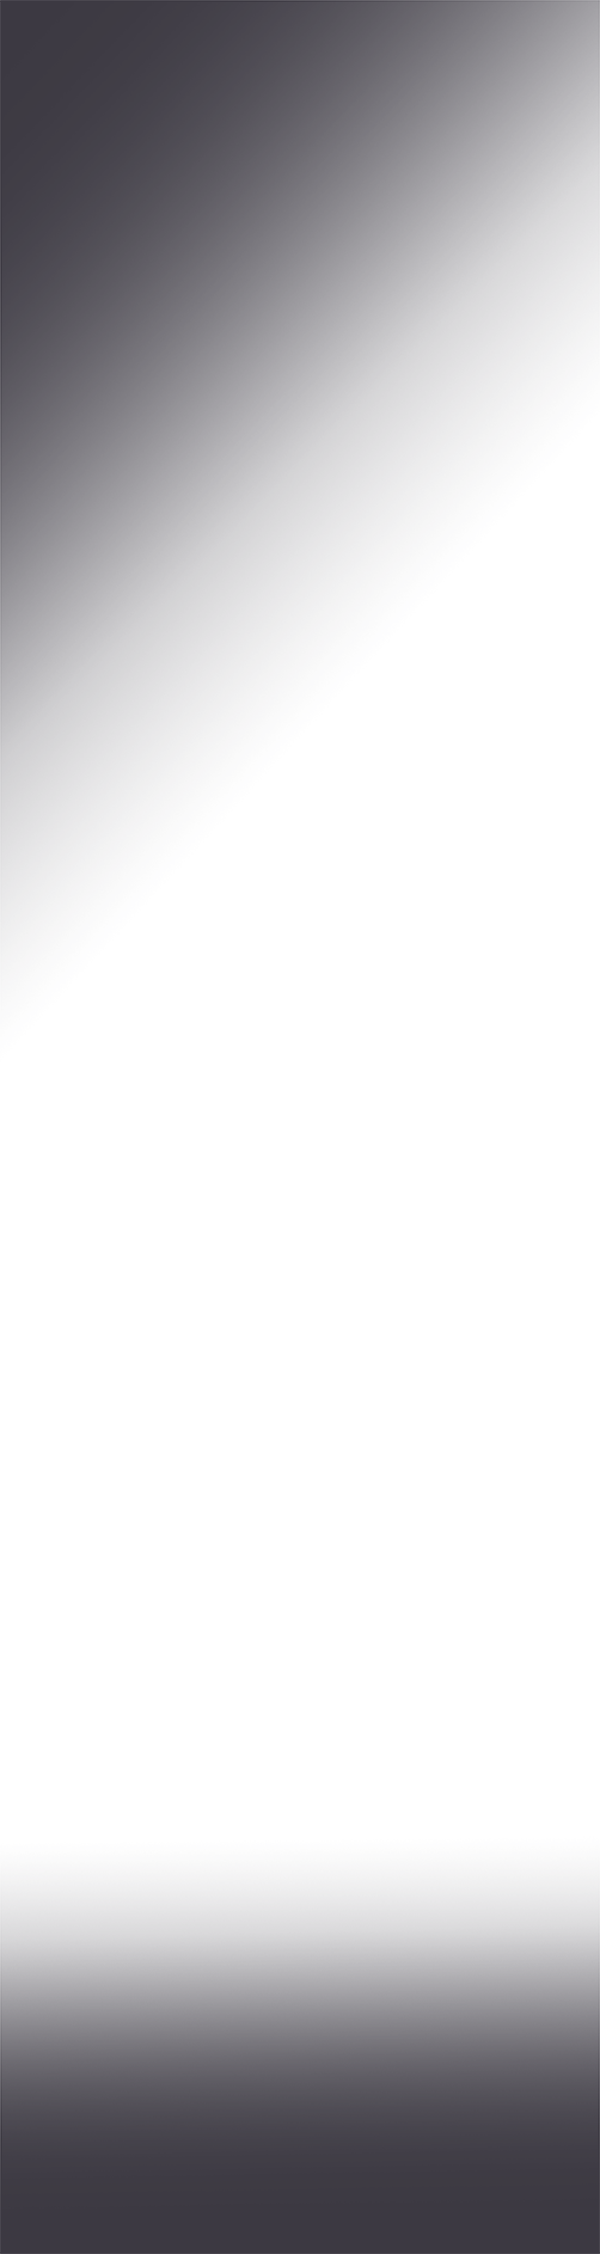
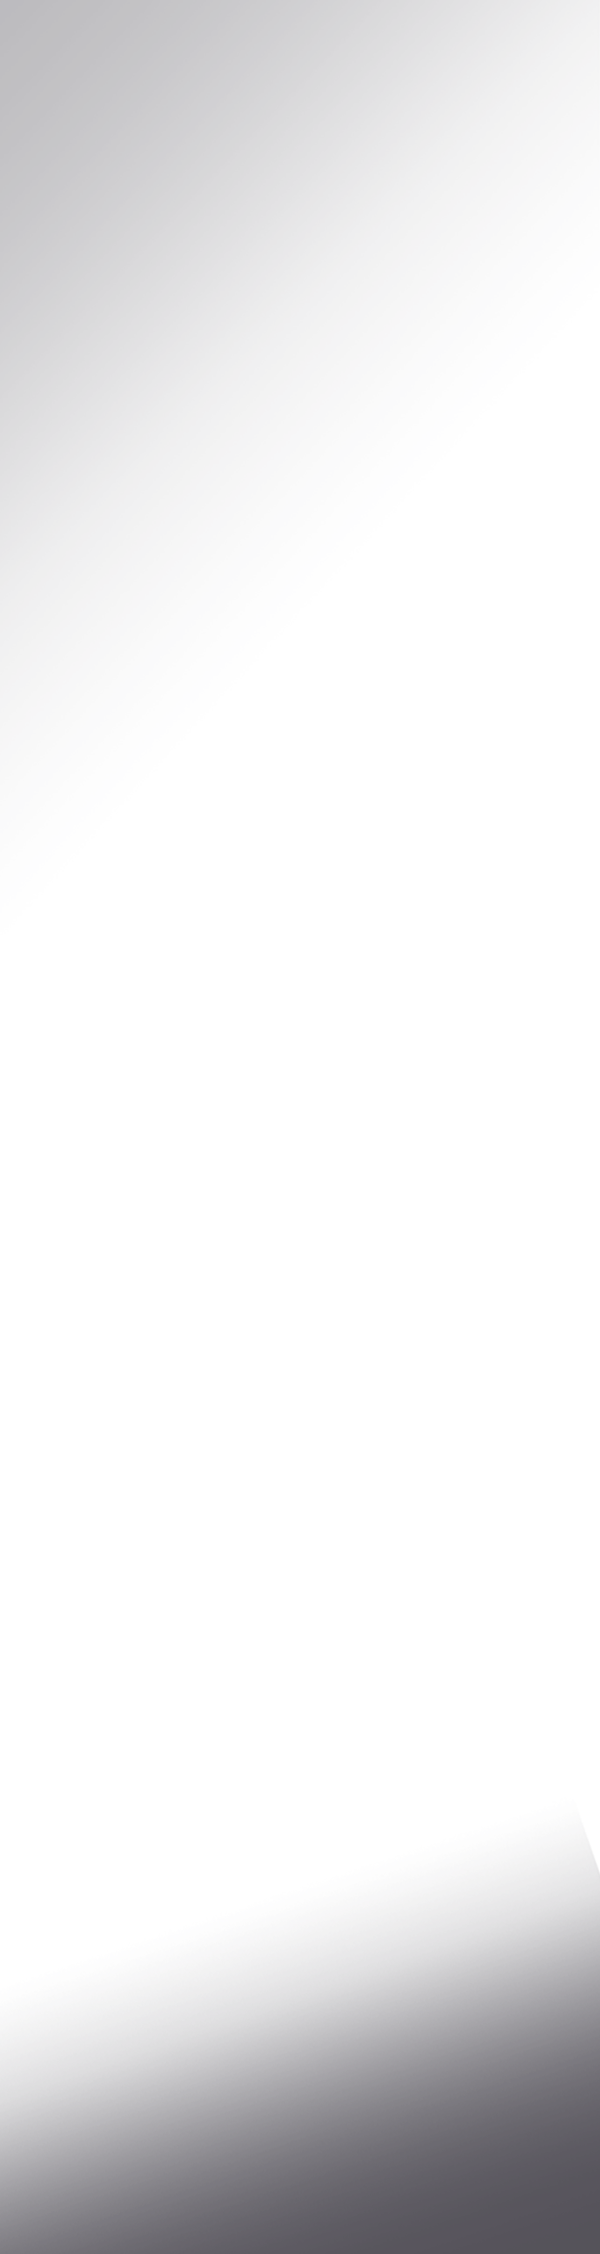
general fix

diff --git a/css/custom/_sidebar.scss b/css/custom/_sidebar.scss
@@ -14,6 +14,12 @@
     position: relative;
     font-family: $font-family-base;
 
+    .sidebar-container {
+        height: 100vh;
+        background:url("/assets/images/sider-bk.png") bottom;
+        background-size: cover;
+    }
+
     .sidebar-logo {
         padding: 0 2.8rem 3rem;
         width: 100%;
@@ -68,6 +74,9 @@
     .sidebar-footer {
         text-align: center;
         width: 100%;
+        position: absolute;
+        bottom: 1rem;
+        left: 0;
         
         .sidebar-footer-logo {
             max-width: 120px;
@@ -91,6 +100,21 @@
     @include media-breakpoint-down(sm) {
         .custom-menu{
             right: 0 !important;
+        }
+
+        .sidebar-logo {
+            padding: 0 3.5rem 1rem !important;
+        }
+        ul li a {
+            padding: .25rem 0 !important;
+        }
+
+        .sidebar-footer {
+            font-size: .8rem;
+            
+            .sidebar-footer-logo {
+                max-width: 100px;
+            }
         }
     }
   

diff --git a/_layouts/home.html b/_layouts/home.html
@@ -14,7 +14,6 @@
               <h5>{{ page.subtitle }}</h5>
               <a class="btn btn-primary btn-negative jumbotron-btn btn-lg" href="{{page.button1-link}}" role="button">{{page.button1-txt}} &raquo;</a>
             </div>
-            <div class="jumbotron-bottom"></div>
             <a target="blank" href="https://github.com/radicalbit/NSDb/blob/master/LICENSE" class="licence"><img src="https://img.shields.io/github/license/radicalbit/NSDb.svg" alt="License"></a>
           </div>
           <div class="jumbotron  jumbotron-full-height">

diff --git a/_includes/sidebar.html b/_includes/sidebar.html
@@ -5,11 +5,11 @@
       <span class="sr-only">Toggle Menu</span>
     </button>
   </div>
-  <div class="p-4">
+  <div class="p-4 sidebar-container">
     <a href="/" class="logo">
       <img src="/assets/logos/NSDB-squared-nega.png" class="sidebar-logo"/>
     </a>
-    <ul class="list-unstyled components mb-5">
+    <ul class="list-unstyled components mb-3">
       <li class="active">
         <a href="/Products" >Product</a>
           <ul class="list-unstyled" id="homeSubmenu">

diff --git a/css/custom/_base.scss b/css/custom/_base.scss
@@ -198,13 +198,4 @@ h2.card-title {
     .nsdb-logo {
       margin-top: 2rem;
     }
-
-    #sidebar {
-        .sidebar-logo {
-            padding: 0 4rem 2rem !important;
-        }
-        ul li a {
-            padding: .25rem 0 !important;
-        }
-    }
   }

diff --git a/css/custom/_jumbotron.scss b/css/custom/_jumbotron.scss
@@ -30,6 +30,10 @@
     .jumbotron-btn{
       margin-top: 1rem !important;
     }
+    
+    .licence {
+      bottom: 1rem;
+    }
 
     .row .row {
       h2 {
